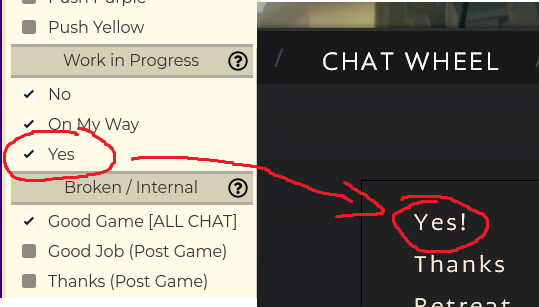
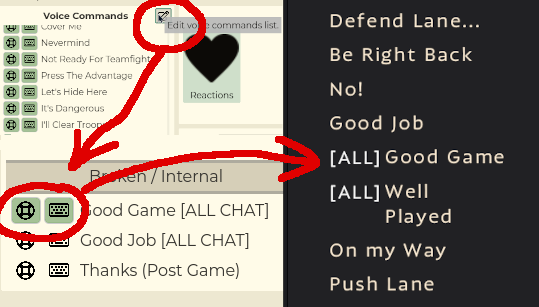
Update README and images
Fixes #59
Fixes #54
Fixes #47

diff --git a/README.md b/README.md
@@ -16,6 +16,7 @@ A tool to customize the chat wheel of Valve's game Deadlock:
 
 - Deadlock is in early alpha, so this tool and add-on **may stop working at any moment**.
 - As the tool edits a game file (specifically a script file), I am **not responsible for any bans for users of this tool**. Valve does not have a clear stance on what's fair game when it comes to modding Deadlock yet!
+- Due to a game bug, whenever the game updates (and `gameinfo.gi` file is reset), opening the chat wheel can **crash** your game! You must either patch the `gameinfo.gi` again (as described below), or go to chat wheel options and remove custom menus.
 
 ## Installation and Usage
 
@@ -23,15 +24,18 @@ To get ChatLane, download the [latest release's](https://github.com/redmser/chat
 
 Extract everything somewhere, then run the `ChatLane-GUI.exe` file.
 
+> [!NOTE]
+> On Linux, you can run ChatLane through Wine/Proton.
+
 ![Installation instruction step 1](docs/installation-1.png)
 
-On the left, you have an overview of all voice commands in the game.
-Those with a checkmark are hidden by default, for various reasons (see the corresponding headers in the list for more info).
-You can enable them so that they show up in the "Chat Wheel" settings of Deadlock as additional options.
+On the left half of the program, you have an overview of all voice commands in the game.
+By default, not all of them can be used in the game, but you can change this.
+After enabling edit mode (toggle button at the top), you can pick which of them can be configured in the chat wheel (left checkbox) and for keyboard shortcut binding (right checkbox).
 
 ![Installation instruction step 2](docs/installation-2.png)
 
-On the right you can define custom menus.
+On the right half of the program, you can define custom menus.
 Create a new menu, give it a name and icon, then you can decide what voice lines should be inside.
 Use drag and drop from the left list onto the right box to assign voice lines to the menu. You can also use drag and drop to re-arrange the elements inside the list.
 When in-game, you will see the new custom menus you've created at the bottom of the "Chat Wheel" settings.
